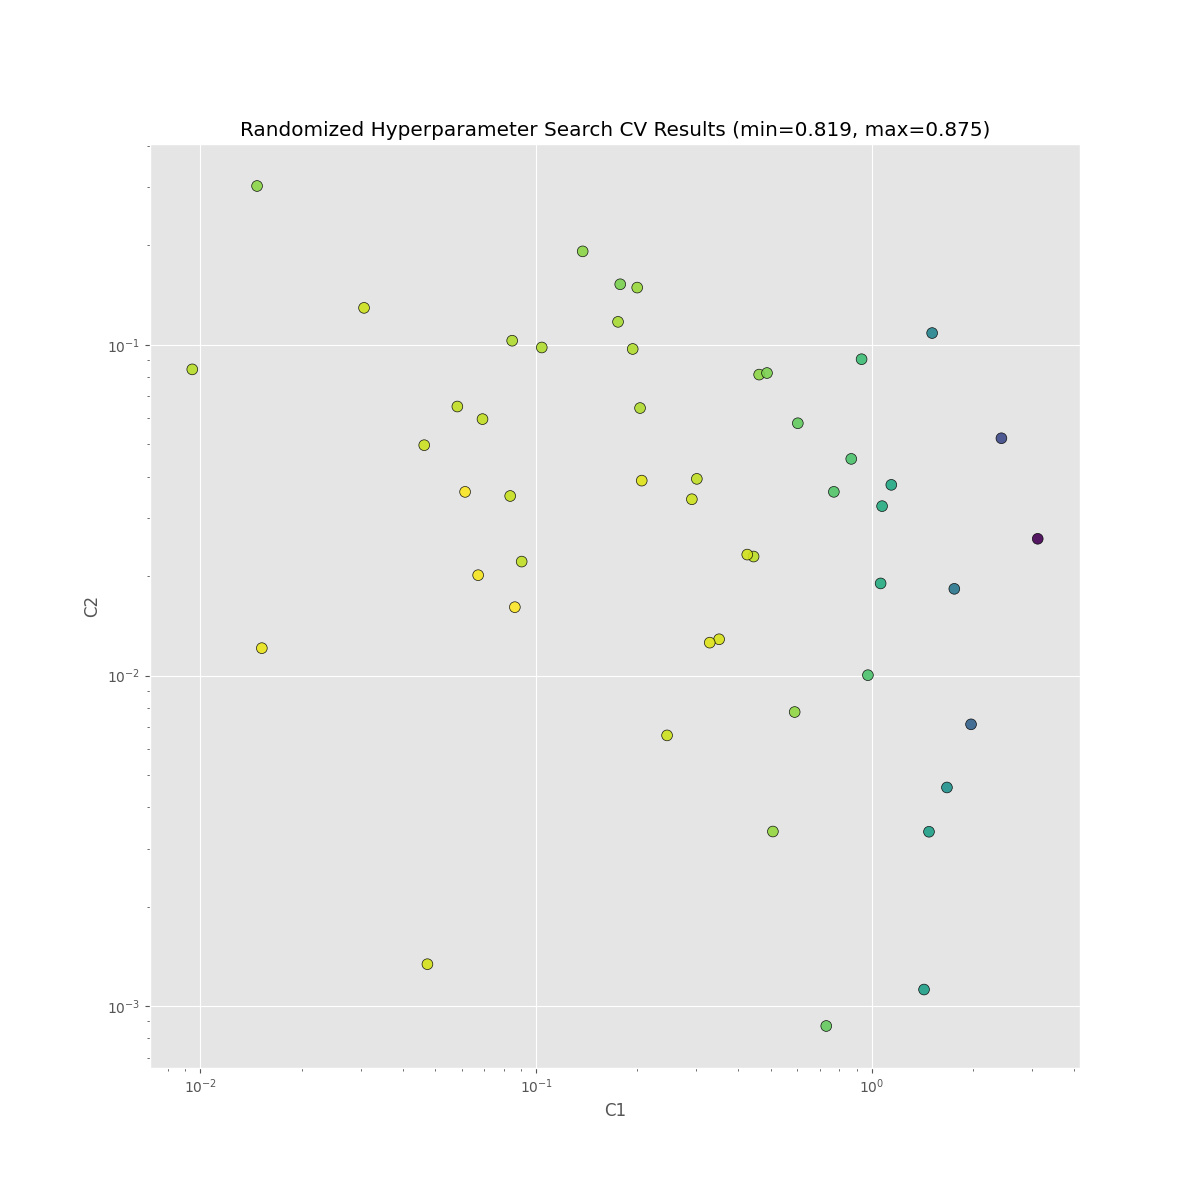
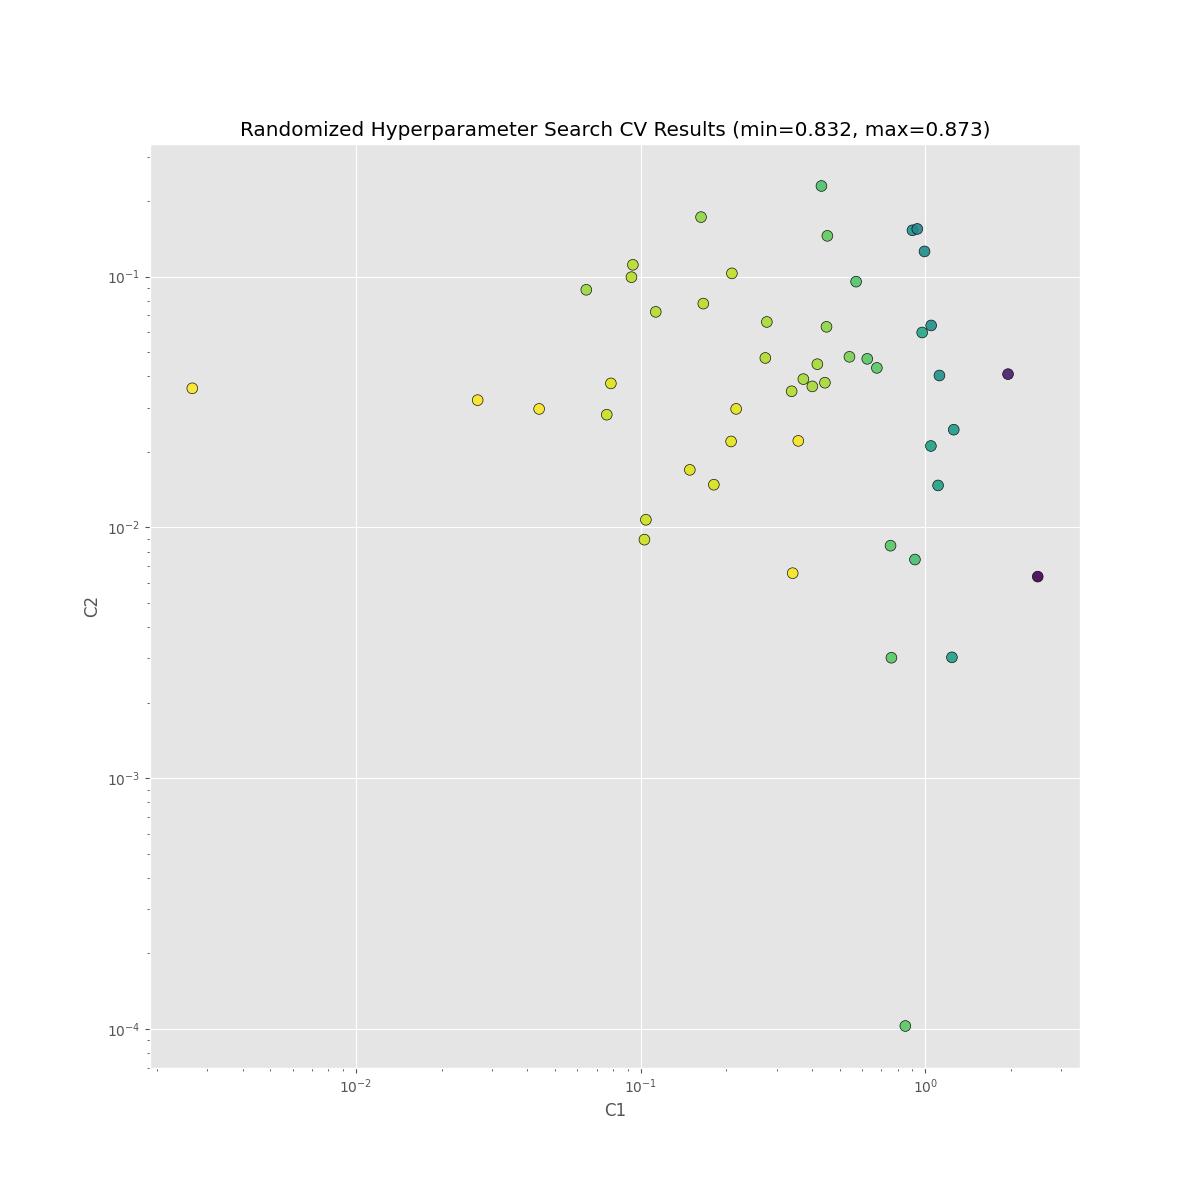
final things

diff --git a/assignment3/feature_selection.py b/assignment3/feature_selection.py
@@ -1,0 +1,34 @@
+from train import TrainModel
+
+
+class FeatureSelectedModel(TrainModel):
+    def __init__(self):
+        super().__init__()
+        self.save_directory = 'feature_selected'
+
+    def word2features(self, df_token):
+        features = {
+            'token': df_token['token'].values[0],
+            'lemma': df_token['LEMMA'].values[0]
+        }
+
+        return features
+
+
+def main(input_path):
+    feature_selected_class = FeatureSelectedModel()
+    feature_selected_class.load_processed_corpus(input_path)
+    feature_selected_class.model_init()
+    feature_selected_class.get_train_test_data()
+    feature_selected_class.split_train_test_data()
+    feature_selected_class.fit_model()
+    feature_selected_class.save_model()
+    feature_selected_class.predict()
+    feature_selected_class.evaluation()
+
+    # feature_selected_class.load_model()
+
+
+if __name__ == '__main__':
+    processed_corpus_path = "./dataset/processed_corpus.csv"
+    main(processed_corpus_path)

diff --git a/assignment3/test.py b/assignment3/test.py
@@ -5,20 +5,8 @@ from sklearn_crfsuite import metrics
 model_class = TrainModel()
 model_class.load_model()
 
-# print(list(model_class.model.classes_.remove('O')))
 
 model_class.y_test = model_class.load_data('y_test.pkl')
 model_class.y_pred = model_class.load_data('y_pred.pkl')
 
 model_class.evaluation()
-#
-# labels = model_class.model.classes_
-# labels.remove('O')
-# print(metrics.flat_f1_score(model_class.y_test, model_class.y_pred,
-#                             average='weighted', labels=labels))
-#
-# print(metrics.flat_precision_score(model_class.y_test, model_class.y_pred,
-#                             average='weighted', labels=labels))
-#
-# print(metrics.flat_recall_score(model_class.y_test, model_class.y_pred,
-#                             average='weighted', labels=labels))

diff --git a/assignment3/train.py b/assignment3/train.py
@@ -150,8 +150,6 @@ class TrainModel:
     def hyperopt(self):
         crf = sklearn_crfsuite.CRF(
             algorithm='lbfgs',
-            max_iterations=100,
-            all_possible_transitions=True
         )
         params_space = {
             'c1': scipy.stats.expon(scale=0.5),
